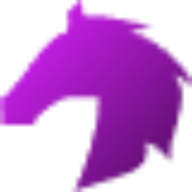
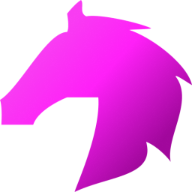
style: adjust theme color

diff --git a/app/components/map.module.css b/app/components/map.module.css
@@ -36,10 +36,11 @@
 
 .overlayContent button {
   background-color: var(--theme);
-  color: var(--text-dark);
+  color: var(--background-dark);
   border: none;
   padding: 0.4rem 1.2rem;
   font-size: 1rem;
+  font-weight: 600;
   border-radius: 6px;
   cursor: pointer;
 }

diff --git a/app/global.css b/app/global.css
@@ -33,7 +33,7 @@
   --background-dark: #0a0a0a;
   --text-dark: #d5d5d5;
   --text-disabled-dark: #505050;
-  --theme: #a218be;
+  --theme: #fe28f7;
 }
 
 html,
